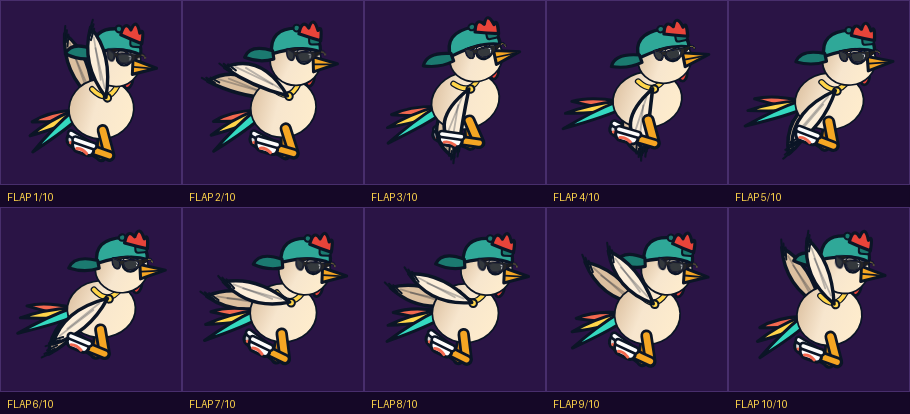
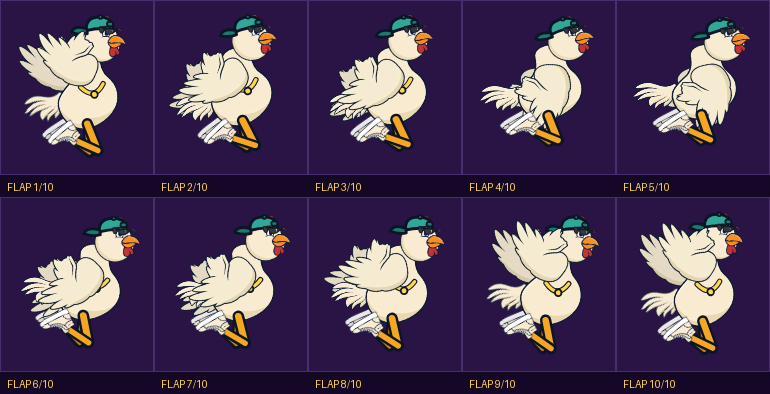
Build the chicken from painted parts hung on the rig
The code-drawn chicken never matched the reference art, and generated per-frame
sprite sheets would drift between frames. So Gemini drew five pieces off the
reference once each - body, head, wing, tail, shoe - and the existing rig now
moves those pieces instead of drawing shapes. The frames look like the reference
because they are the reference art.

Nothing about the animation changed: IK legs, the keyframed flap, the tumble and
the cosmetic pivots all still work. Only what gets drawn at each pivot changed.
The fully procedural chicken remains as a fallback behind partReady(), so a
missing image degrades instead of erasing the character.

Two fixes found while aligning:
- ctx.rotate(t) maps dir(a) to dir(a-t), not a+t, so the wing part rotated
  backwards and "wings up" drew wings down.
- Head cosmetics were eyeballed and floated off the skull. Offsets are now
  measured from the part image itself (cream centroid, eyeball centroid).

He also stands on longer legs so the stride reads, and the frame sheet page adds
the parts library.

Claude-Session: https://claude.ai/code/session_01GPMrTdwpCZtjDF6U8tWZ25

diff --git a/index.html b/index.html
@@ -418,12 +418,13 @@ function musicVol(v){ if(A.started) A.musicGain.gain.setTargetAtTime(v, A.ctx.cu
    Local space: origin = body core, +x forward, +y down.
    ============================================================ */
 const CK = {
-  bodyRX:47, bodyRY:41,
-  headX:33, headY:-60, headR:37,
-  wingX:10, wingY:-15, wingA:56, wingB:46,
-  hipX:-4,  hipY:30,
-  thigh:37, shin:35, ANKLE:10,
-  standH:92
+  bodyRX:52, bodyRY:40,          // fallback shape only; the part carries the real body
+  bodyTilt:-0.13,
+  headX:40, headY:-96, headR:23,
+  wingX:12, wingY:-46, wingA:84, wingB:70,
+  hipX:-10, hipY:30,
+  thigh:46, shin:44, ANKLE:14,
+  standH:118
 };
 const HATS = ['cap_snapback','hat_bucket'];
 
@@ -475,7 +476,7 @@ function setLegs(p, ax,ay, bx,by){
 /* ---- the poses ---- */
 /* wing angles: 0 = straight down, more negative = further up */
 function poseRun(ph, speedT, p){
-  const stride=lerp(54,70,speedT), lift=lerp(36,52,speedT), bob=lerp(7,10,speedT);
+  const stride=lerp(70,88,speedT), lift=lerp(48,64,speedT), bob=lerp(8,11,speedT);
   p.y = bob*Math.cos(4*Math.PI*(ph-0.12));
   p.x = 2*Math.sin(4*Math.PI*ph);
   p.rot = lerp(0.08,0.24,speedT) + 0.02*Math.sin(4*Math.PI*ph);
@@ -488,9 +489,9 @@ function poseRun(ph, speedT, p){
   setLegs(p, _fp1.x-CK.hipX, _fp1.y, _fp2.x-CK.hipX, _fp2.y);
   // a running chicken pumps its wings for balance — out of phase with the legs
   const w = Math.sin(ph*TAU), w2 = Math.sin(ph*TAU + 1.15);
-  p.wingN = -0.86 + w*0.58; p.wingF = -0.72 - w*0.52;
+  p.wingN = -0.72 + w*0.46; p.wingF = -0.62 - w*0.42;
   p.tipN  = 0.34 + w2*0.40; p.tipF = 0.30 - w2*0.34;
-  p.wingOpen = 0.52 + 0.20*Math.max(0,w);
+  p.wingOpen = 0.22 + 0.13*Math.max(0,w);
   p.tail = 0.16*w - 0.04;
   p.sx = 1 - 0.02*w; p.sy = 1 + 0.02*w;
   return p;
@@ -663,23 +664,46 @@ function capsule(x1,y1,x2,y2,w,col){
   ctx.strokeStyle=CKC.edge; ctx.lineWidth=w+8; ctx.stroke();
   ctx.strokeStyle=col;     ctx.lineWidth=w;   ctx.stroke();
 }
-function drawSneaker(kx,ky,fx,fy,col){
-  const a=Math.atan2(fx-kx,fy-ky);
+function drawWingPart(px, py, ang, tip, open, col, far){
+  ctx.save(); ctx.translate(px, py);
+  if(partReady('wing')){
+    ctx.rotate(-ang);                           // canvas rotate(t) sends dir(a) to dir(a-t)
+    ctx.save();
+    if(far){ ctx.globalAlpha = 0.92; }
+    drawPart('wing', 1, lerp(0.42, 1, open));   // folding shortens the wing
+    ctx.restore();
+  } else {
+    drawWing(ang, tip, open, col);
+  }
+  ctx.restore();
+}
+function drawShoePart(kx,ky,fx,fy,col,far){
+  if(!partReady('shoe')) return drawSneaker(kx,ky,fx,fy,col);
+  const a=Math.atan2(fx-kx,fy-ky)*0.5;
   ctx.save(); ctx.translate(fx,fy); ctx.rotate(-a+Math.PI/2);
-  ctx.beginPath(); ctx.roundRect(-11,-10,33,15,[7,10,4,7]); cp(col,4.6);
-  ctx.beginPath(); ctx.roundRect(-13,1,37,9,4.5); cp(CKC.shoe,3.8);
-  ctx.beginPath(); ctx.moveTo(-2,-8); ctx.quadraticCurveTo(7,-3,14,-6);
-  ctx.strokeStyle=CKC.lace; ctx.lineWidth=4.4; ctx.lineCap='round'; ctx.stroke();
+  ctx.save(); if(far) ctx.globalAlpha=0.9;
+  drawPart('shoe'); ctx.restore();
+  ctx.restore();
+}
+function drawSneaker(kx,ky,fx,fy,col){
+  const a=Math.atan2(fx-kx,fy-ky)*0.5;      // the sole stays flatter than the shin
+  ctx.save(); ctx.translate(fx,fy); ctx.rotate(-a+Math.PI/2);
+  ctx.beginPath(); ctx.roundRect(-15,-15,48,22,[11,15,5,11]); cp(col,5);
+  ctx.beginPath(); ctx.roundRect(-17,2,53,13,6.5); cp(CKC.shoe,4.2);
+  ctx.beginPath(); ctx.moveTo(-4,-12); ctx.quadraticCurveTo(9,-5,20,-9);
+  ctx.strokeStyle=CKC.lace; ctx.lineWidth=5; ctx.lineCap='round'; ctx.stroke();
+  ctx.beginPath(); ctx.moveTo(-2,-4); ctx.lineTo(16,-1);
+  ctx.strokeStyle='rgba(11,21,38,.30)'; ctx.lineWidth=2.6; ctx.stroke();
   ctx.restore();
 }
 function drawWing(a, tip, open, col){
   // a blade, not a tube: leading edge bulges, trailing edge cuts back
-  const L1=CK.wingA*lerp(0.72,1,open), L2=CK.wingB*lerp(0.6,1,open);
+  const L1=CK.wingA*lerp(0.38,1,open), L2=CK.wingB*lerp(0.26,1,open);
   const ex=dirX(a)*L1, ey=dirY(a)*L1;
   const b=a+tip;
   const tx=ex+dirX(b)*L2, ty=ey+dirY(b)*L2;
   let nx=-(ty), ny=(tx); const nl=Math.hypot(nx,ny)||1; nx/=nl; ny/=nl;
-  const wIn=25*lerp(0.8,1,open), wOut=10;
+  const wIn=30*lerp(0.8,1,open), wOut=9;
   ctx.beginPath();
   ctx.moveTo(0,0);
   ctx.quadraticCurveTo(ex+nx*wIn*1.5, ey+ny*wIn*1.5, tx+nx*wOut, ty+ny*wOut);
@@ -741,6 +765,48 @@ function cosmeticImage(id, slot, src, opt){
   defineCosmetic(Object.assign({id, slot, img:im}, opt||{}));
 }
 
+/* ============================================================
+   PARTS
+   Painted pieces cut from the reference art, hung on the same rig.
+   Every part is optional: if its image is missing the procedural
+   version draws instead, so the character can never disappear.
+   `w` is the part's width in world units; ax/ay are its anchor as a
+   fraction of the image, i.e. the point the pivot holds it by.
+   ============================================================ */
+const PARTS = {};
+function loadPart(id, src, opt){
+  const im = new Image(); im.src = src;
+  PARTS[id] = Object.assign({ img:im, w:100, ax:0.5, ay:0.5, rot:0, tint:null }, opt||{});
+}
+function partReady(id){
+  const q = PARTS[id];
+  return !!(q && q.img.complete && q.img.naturalWidth > 0);
+}
+/* draws at the current origin; returns false so callers can fall back */
+function drawPart(id, scaleX, scaleY){
+  if(!partReady(id)) return false;
+  const q = PARTS[id];
+  const w = q.w, h = w*(q.img.naturalHeight/q.img.naturalWidth);
+  ctx.save();
+  if(q.rot) ctx.rotate(q.rot);
+  if(scaleX!==undefined || scaleY!==undefined) ctx.scale(scaleX===undefined?1:scaleX, scaleY===undefined?1:scaleY);
+  if(q.dark){ ctx.globalAlpha = 1; }
+  ctx.drawImage(q.img, -w*q.ax, -h*q.ay, w, h);
+  if(q.dark){                                   // far-side limbs read as shadow
+    ctx.globalCompositeOperation='source-atop';
+    ctx.fillStyle='rgba(70,40,20,.30)';
+    ctx.fillRect(-w*q.ax, -h*q.ay, w, h);
+    ctx.globalCompositeOperation='source-over';
+  }
+  ctx.restore();
+  return true;
+}
+loadPart('body','art/part-body.png', {w:104, ax:0.50, ay:0.70, rot:0.10});
+loadPart('head','art/part-head.png', {w:74,  ax:0.42, ay:0.52});
+loadPart('wing','art/part-wing.png', {w:90,  ax:0.78, ay:0.12, rot:-0.65});
+loadPart('tail','art/part-tail.png', {w:70,  ax:0.95, ay:0.45});
+loadPart('shoe','art/part-shoe.png', {w:52,  ax:0.32, ay:0.22});
+
 /* ---- the head, drawn in the same language as the body ---- */
 function hatSnapback(R){
   ctx.beginPath();
@@ -800,6 +866,23 @@ defineCosmetic({ id:'hoodie_code', slot:'body', draw:(R)=>{
 
 function drawHead(p){
   const R = CK.headR;
+  if(partReady('head')){
+    drawPart('head');
+    // the painted head has its own skull and eye, so the cosmetics shift onto them
+    // measured off the part: skull centre sits at (-2,-8) from the pivot, eye at (+9,-12)
+    ctx.save(); ctx.translate(-2,-8); drawSlot('head', R); ctx.restore();
+    ctx.save(); ctx.translate( 2,-8); drawSlot('face', R); ctx.restore();
+    if(p.shockT>0.02){
+      ctx.save(); ctx.globalAlpha=clamp(p.shockT*2,0,1);
+      ctx.strokeStyle=CKC.edge; ctx.lineWidth=3; ctx.lineCap='round';
+      for(let i=0;i<3;i++){ const a=-0.9+i*0.5;
+        ctx.beginPath();
+        ctx.moveTo(-R*1.5+Math.sin(a)*8, -R*1.4+Math.cos(a)*8);
+        ctx.lineTo(-R*1.5+Math.sin(a)*20,-R*1.4+Math.cos(a)*20); ctx.stroke(); }
+      ctx.restore();
+    }
+    return;
+  }
   // wattle
   ctx.beginPath(); ctx.ellipse(R*0.56,R*0.70,R*0.17,R*0.32,0.22,0,TAU); cp(CKC.comb,4);
   // skull
@@ -810,9 +893,9 @@ function drawHead(p){
   ctx.fillStyle=hg; ctx.fillRect(-R-2,-R-2,R*2+4,R*2+4); ctx.restore();
   // beak
   ctx.beginPath();
-  ctx.moveTo(R*0.70,-R*0.12); ctx.lineTo(R*1.66,R*0.16); ctx.lineTo(R*0.70,R*0.46);
-  ctx.closePath(); cp(CKC.beak,4.4);
-  ctx.beginPath(); ctx.moveTo(R*0.74,R*0.17); ctx.lineTo(R*1.54,R*0.18);
+  ctx.moveTo(R*0.66,-R*0.20); ctx.lineTo(R*1.92,R*0.18); ctx.lineTo(R*0.66,R*0.54);
+  ctx.closePath(); cp(CKC.beak,4.6);
+  ctx.beginPath(); ctx.moveTo(R*0.70,R*0.18); ctx.lineTo(R*1.78,R*0.19);
   ctx.strokeStyle=CKC.edge; ctx.lineWidth=2.6; ctx.stroke();
   // eye: half lidded, one raised brow. That is the whole personality.
   const open = clamp(0.42 + p.shockT*1.5, 0, 1.25);
@@ -832,12 +915,12 @@ function drawHead(p){
   // hat, then the comb bursting up in front of it
   drawSlot('head', R);
   ctx.beginPath();
-  ctx.moveTo(R*0.16,-R*1.02);
-  ctx.quadraticCurveTo(R*0.30,-R*1.62, R*0.56,-R*1.24);
-  ctx.quadraticCurveTo(R*0.76,-R*1.74, R*0.92,-R*1.14);
-  ctx.quadraticCurveTo(R*1.10,-R*1.40, R*1.02,-R*0.74);
-  ctx.quadraticCurveTo(R*0.60,-R*0.86, R*0.16,-R*1.02);
-  ctx.closePath(); cp(CKC.comb,4.6);
+  ctx.moveTo(R*0.24,-R*1.00);
+  ctx.quadraticCurveTo(R*0.34,-R*1.42, R*0.56,-R*1.12);
+  ctx.quadraticCurveTo(R*0.72,-R*1.50, R*0.86,-R*1.06);
+  ctx.quadraticCurveTo(R*1.00,-R*1.26, R*0.96,-R*0.78);
+  ctx.quadraticCurveTo(R*0.60,-R*0.84, R*0.24,-R*1.00);
+  ctx.closePath(); cp(CKC.comb,4.4);
   drawSlot('face', R);
 }
 
@@ -851,35 +934,48 @@ function drawChicken(x, y, p){
   // far leg
   capsule(CK.hipX,CK.hipY, CK.hipX+p.kFx,CK.hipY+p.kFy, 9, CKC.legDark);
   capsule(CK.hipX+p.kFx,CK.hipY+p.kFy, CK.hipX+p.fFx,CK.hipY+p.fFy, 7, CKC.legDark);
-  drawSneaker(CK.hipX+p.kFx,CK.hipY+p.kFy, CK.hipX+p.fFx,CK.hipY+p.fFy, CKC.shoeDark);
+  drawShoePart(CK.hipX+p.kFx,CK.hipY+p.kFy, CK.hipX+p.fFx,CK.hipY+p.fFy, CKC.shoeDark, true);
 
   // far wing
-  ctx.save(); ctx.translate(-CK.wingX, CK.wingY);
-  drawWing(p.wingF, p.tipF, p.wingOpen, CKC.shade); ctx.restore();
+  drawWingPart(-CK.wingX, CK.wingY, p.wingF, p.tipF, p.wingOpen, CKC.shade, true);
 
-  // tail
-  ctx.save(); ctx.translate(-CK.bodyRX*0.86, -6);
-  CKC.tail.forEach((c,i)=>{
-    ctx.save();
-    ctx.rotate(-0.30 - i*0.30 + p.tail + spring.tail*0.22);
-    ctx.beginPath(); ctx.moveTo(0,0);
-    ctx.quadraticCurveTo(-30,-26,-56-i*7,-32-i*9);
-    ctx.quadraticCurveTo(-26,-2,-4,13);
-    ctx.closePath(); cp(c,4.4);
-    ctx.restore();
-  });
-  ctx.restore();
+  // tail — one swept cream shape that grows out of the body
+  ctx.save();
+  ctx.translate(-46, -30);
+  ctx.rotate(p.tail*0.6 + spring.tail*0.18);
+  ctx.rotate(-0.34);
+  if(drawPart('tail')){ ctx.restore(); } else {
+  ctx.beginPath();
+  ctx.moveTo( 14,-20);
+  ctx.quadraticCurveTo(-20,-38,-50,-26);
+  ctx.quadraticCurveTo(-34,-10,-42,  4);
+  ctx.quadraticCurveTo(-14, -2, 14, 14);
+  ctx.closePath(); cp(CKC.body,5);
+  ctx.strokeStyle='rgba(11,21,38,.24)'; ctx.lineWidth=2.6; ctx.lineCap='round';
+  ctx.beginPath(); ctx.moveTo(-6,-18); ctx.lineTo(-34,-22); ctx.stroke();
+  ctx.restore(); }
 
   drawSlot('back', CK.bodyRX);            // capes/packs sit behind the body
 
   // body
-  ctx.beginPath(); ctx.ellipse(0,0,CK.bodyRX,CK.bodyRY,0.04,0,TAU); cp(CKC.body,5);
-  ctx.save(); ctx.clip();
-  const bg = ctx.createLinearGradient(-CK.bodyRX,-CK.bodyRY*0.6, CK.bodyRX,CK.bodyRY*0.6);
-  bg.addColorStop(0, CKC.shade); bg.addColorStop(0.42, CKC.body); bg.addColorStop(1, '#FFEDCC');
-  ctx.fillStyle=bg; ctx.fillRect(-CK.bodyRX-2,-CK.bodyRY-2,CK.bodyRX*2+4,CK.bodyRY*2+4);
-  ctx.restore();
+  if(partReady('body')){
+    ctx.save(); ctx.rotate(CK.bodyTilt); drawPart('body'); ctx.restore();
+  } else {
+    ctx.beginPath(); ctx.ellipse(0,0,CK.bodyRX,CK.bodyRY,CK.bodyTilt,0,TAU); cp(CKC.body,5);
+    ctx.save(); ctx.clip();
+    const bg = ctx.createLinearGradient(-CK.bodyRX,-CK.bodyRY*0.6, CK.bodyRX,CK.bodyRY*0.6);
+    bg.addColorStop(0, CKC.shade); bg.addColorStop(0.42, CKC.body); bg.addColorStop(1, '#FFEDCC');
+    ctx.fillStyle=bg; ctx.fillRect(-CK.bodyRX-2,-CK.bodyRY-2,CK.bodyRX*2+4,CK.bodyRY*2+4);
+    ctx.restore();
+  }
   drawSlot('body', CK.bodyRX);            // outfit rides the body pivot
+  // neck: joins body to head so the silhouette is one animal
+  if(!partReady('body')){
+    const hx=CK.headX+p.headDX, hy=CK.headY+p.headDY;
+    ctx.beginPath(); ctx.moveTo(hx-4, hy+6); ctx.lineTo(hx+14, hy+10);
+    ctx.lineTo(CK.bodyRX*0.44, -CK.bodyRY*0.30); ctx.lineTo(CK.bodyRX*0.10, -CK.bodyRY*0.42);
+    ctx.closePath(); cp(CKC.body,5);
+  }
   drawSlot('neck', CK.bodyRX);            // scarf etc.
 
   // head (painted sprite carries hat + face)
@@ -901,13 +997,30 @@ function drawChicken(x, y, p){
   ctx.restore();
 
   // near wing
-  ctx.save(); ctx.translate(CK.wingX, CK.wingY);
-  drawWing(p.wingN, p.tipN, p.wingOpen, CKC.wing); ctx.restore();
+  drawWingPart(CK.wingX, CK.wingY, p.wingN, p.tipN, p.wingOpen, CKC.wing, false);
 
   // near leg
-  capsule(CK.hipX,CK.hipY, CK.hipX+p.kNx,CK.hipY+p.kNy, 10, CKC.leg);
-  capsule(CK.hipX+p.kNx,CK.hipY+p.kNy, CK.hipX+p.fNx,CK.hipY+p.fNy, 8, CKC.leg);
-  drawSneaker(CK.hipX+p.kNx,CK.hipY+p.kNy, CK.hipX+p.fNx,CK.hipY+p.fNy, CKC.shoe);
+  capsule(CK.hipX,CK.hipY, CK.hipX+p.kNx,CK.hipY+p.kNy, 11, CKC.leg);
+  capsule(CK.hipX+p.kNx,CK.hipY+p.kNy, CK.hipX+p.fNx,CK.hipY+p.fNy, 9, CKC.leg);
+  drawShoePart(CK.hipX+p.kNx,CK.hipY+p.kNy, CK.hipX+p.fNx,CK.hipY+p.fNy, CKC.shoe, false);
+
+  if(game.rig){                                   // pivot overlay for aligning parts
+    const mark=(x,y,c,lbl)=>{
+      ctx.strokeStyle=c; ctx.lineWidth=2;
+      ctx.beginPath(); ctx.moveTo(x-9,y); ctx.lineTo(x+9,y);
+      ctx.moveTo(x,y-9); ctx.lineTo(x,y+9); ctx.stroke();
+      ctx.beginPath(); ctx.arc(x,y,4,0,TAU); ctx.stroke();
+      ctx.fillStyle=c; ctx.font='700 11px Archivo, sans-serif'; ctx.fillText(lbl,x+11,y-4);
+    };
+    ctx.strokeStyle='rgba(63,224,176,.45)'; ctx.lineWidth=1.5;
+    ctx.beginPath(); ctx.moveTo(-160,CK.standH); ctx.lineTo(160,CK.standH); ctx.stroke();  // ground
+    mark(0,0,'#FF456E','core');
+    mark(CK.headX+p.headDX, CK.headY+p.headDY, '#6BD1FF', 'head');
+    mark(CK.wingX, CK.wingY, '#FFD54A', 'wing');
+    mark(-46, -30, '#3FE0B0', 'tail');
+    mark(CK.hipX, CK.hipY, '#F2684F', 'hip');
+    mark(CK.hipX+p.fNx, CK.hipY+p.fNy, '#FFF2DE', 'ankle');
+  }
 
   ctx.restore();
 }
@@ -1809,7 +1922,7 @@ function updatePlay(dt){
   if(game.spawnT<=0) spawnPattern();
 
   // ---- obstacles ----
-  const pl = p.x-34, pr = p.x+34, pb = p.y+10, pt = p.y+168;
+  const pl = p.x-42, pr = p.x+42, pb = p.y+12, pt = p.y+205;
   for(let i=game.obstacles.length-1;i>=0;i--){
     const o = game.obstacles[i];
     o.x += (o.vx||0)*dt;
@@ -2323,6 +2436,7 @@ function boot(){
   if(/[?&]demo/.test(location.search)) game.demo = true;
   if(/[?&]dbg/.test(location.search)) game.dbg = true;
   if(/[?&]stage/.test(location.search)) game.stage = true;
+  if(/[?&]rig/.test(location.search)) game.rig = true;
   if(/[?&]solo/.test(location.search)){ game.solo = true; document.body.classList.add('solo'); }
   const rmv=/[?&]run=([0-9.]+)/.exec(location.search); if(rmv) game.demoRun=parseFloat(rmv[1]);
   const sz=/[?&]sz=([0-9.]+)/.exec(location.search); if(sz) game.soloZoom=parseFloat(sz[1]);

diff --git a/characters.html b/characters.html
@@ -74,6 +74,14 @@
     the moment of impact, dazed on the ground, and celebrating a new best.</p>
   <div class="card tight"><img src="frames/sheet-states.png" alt="Eight animation states: idle, peck, strut, glide, land, hit, dazed, celebrate"></div>
 
+  <h2>The parts he is built from</h2>
+  <p class="count">5 PIECES · GENERATED ONCE</p>
+  <p class="note">Every frame above is these five painted pieces, hung on the animation rig and moved
+    by it. That is why the frames finally look like the reference: <b>they are the reference art</b>,
+    not a code imitation of it. Generating each piece once also means <b>no drift</b> — the character
+    cannot wobble between frames the way generated sprite sheets do.</p>
+  <div class="card"><img src="frames/sheet-parts.png" alt="The five painted parts: body, head, wing, tail, shoe"></div>
+
   <h2>Design reference</h2>
   <p class="note">The look these frames are built toward — designs 1 and 2 fused: backwards cap,
     shades, gold chain.</p>

diff --git a/_CONTINUE-HERE.md b/_CONTINUE-HERE.md
@@ -14,11 +14,36 @@ Everything is in **index.html** plus four PNGs in `art/`. No build step.
 
 ## The character — read this before touching him
 
-**One animated chicken, drawn entirely in code, plus interchangeable cosmetic
-layers.** There are no per-outfit animations and there never should be.
+**One animated chicken assembled from five painted parts, plus interchangeable
+cosmetic layers.** There are no per-outfit animations and there never should be.
 
-An earlier version glued a painted head onto a code body; it read as assembled
-parts and was scrapped. Keep the base character in one drawing language.
+### Parts (the important bit)
+
+`art/part-{body,head,wing,tail,shoe}.png` are cut from the Gemini reference art
+and hung on the rig by `loadPart` / `drawPart`. The rig moves the pieces; it does
+not draw the character. This is why he looks like the reference — he *is* the
+reference art.
+
+Each part has `w` (width in world units) and `ax`/`ay` (the anchor, as a fraction
+of the image, i.e. the point the pivot holds it by). **Do not eyeball these.**
+Measure the PNG (cream centroid, eyeball centroid) and set the numbers from the
+measurement — guessing cost several rounds.
+
+Two traps that already bit:
+- `ctx.rotate(t)` maps `dir(a)` to `dir(a-t)`, **not** `a+t`. The wing part must
+  be rotated by `-ang`, with `rot:-0.65` squaring the asset to "straight down".
+  Get this backwards and "wings up" draws wings down.
+- Head cosmetics sit on the *painted* skull, not the pivot: `(-2,-8)` for the hat
+  slot and `(2,-8)` for the face slot, both measured off `part-head.png`.
+
+**Every part is optional.** If an image is missing, the fully procedural chicken
+draws instead (`partReady` guards every call), so the character can never vanish.
+Do not delete the procedural path.
+
+Earlier attempts, for the record: a painted *head* on a code body read as
+assembled parts and was scrapped; a fully code-drawn chicken never matched the
+reference. Generated per-frame sprite sheets were rejected because the character
+drifts between frames.
 
 ### Cosmetic system
 
@@ -53,6 +78,7 @@ rules that keep them consistent.
 | What | Marker |
 |---|---|
 | Chicken rig constants | `const CK = {` |
+| Painted parts | `const PARTS`, `loadPart`, `drawPart`, `partReady` |
 | Cosmetic registry / slots | `const SLOTS`, `defineCosmetic`, `equip` |
 | Cosmetic draw hook | `function drawSlot` |
 | All poses | `function poseRun` … `function poseCheer` |
@@ -91,7 +117,9 @@ rules that keep them consistent.
 
 `?auto=1` start a run · `?demo=1` auto-flap · `?flap=0.5` freeze the wings at one
 point in the cycle · `?hold=0` glide · `?zoom=1.7` zoom on the bird ·
-`?dbg=1` altitude readout in the tab title · `?stage=1` drop three gates in front ·
+`?dbg=1` altitude readout · `?stage=1` drop three gates in front · `?solo=1` character only,
+no world or HUD · `?run=0.3` freeze a stride frame · `?pose=land:1` freeze any state ·
+`?sz=2` zoom the solo view · `?rig=1` draw the pivot crosshairs (use this before tuning parts) ·
 `?wear=head:hat_bucket,face:shades_art,neck:scarf_art` set a loadout.
 
 ## Animation
